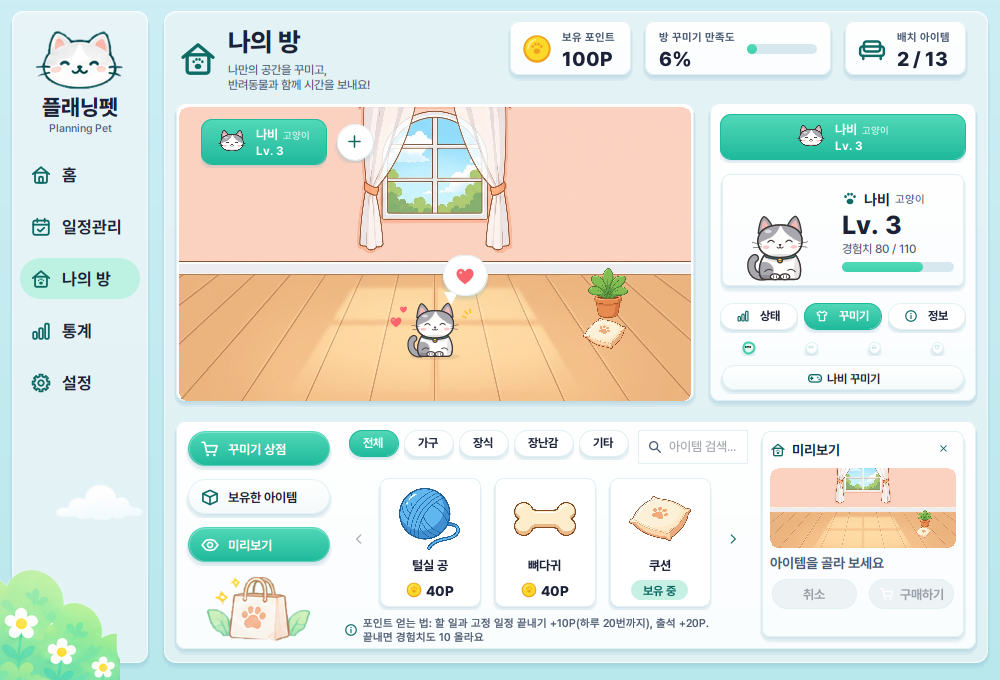
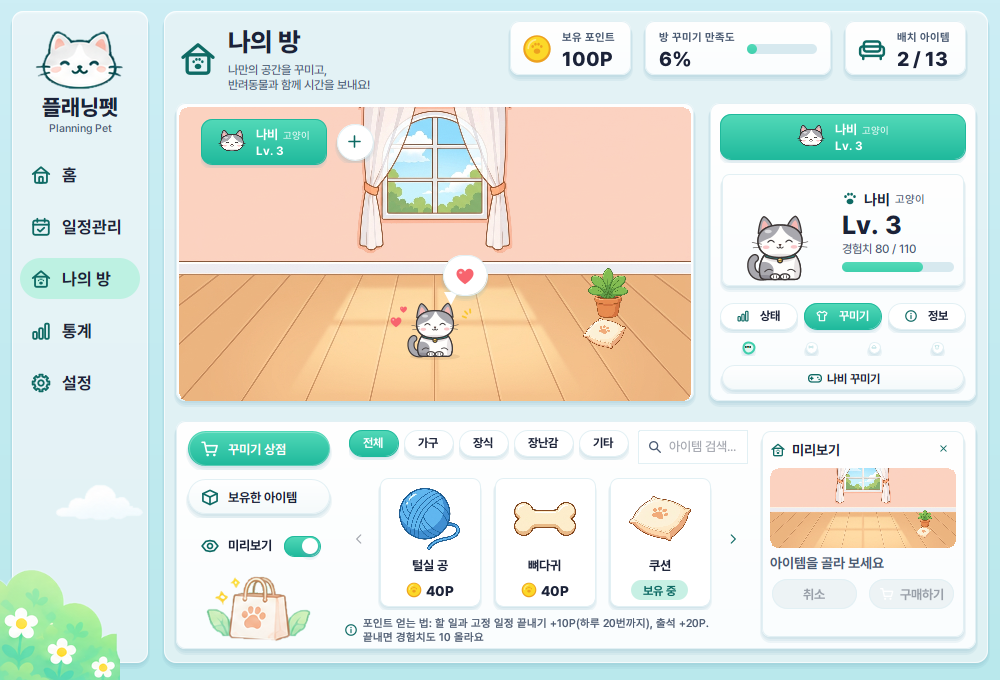
feat(shop): 상점 메뉴는 하나만 눌리는 탭 둘과 미리보기 스위치 (#195)
D-82: "꾸미기 상점"과 "보유한 아이템"만 하나만 눌리는 탭으로 두고, "미리보기"는 그 아래 Switch로 바꿨다. 검사 "D-82 상점 탭은 하나만 눌리고 미리보기는 따로 켜고 끄는 스위치"를 더하고 나의 방 캡처를 새로 찍었다.

Changed region(s): [[0.186, 0.7721, 0.341, 0.8338]]

diff --git a/prototype/src/planningpet/shop/view/ShopPanel.java b/prototype/src/planningpet/shop/view/ShopPanel.java
@@ -41,7 +41,8 @@ public final class ShopPanel extends Card {
     private final Consumer<String> thanks;
     public final JToggleButton shopMode = new JToggleButton("꾸미기 상점", true);
     public final JToggleButton ownedMode = new JToggleButton("보유한 아이템");
-    public final JToggleButton previewToggle = new JToggleButton("미리보기", true);
+    /** 미리보기 칸을 켜고 끈다. 위의 두 탭과 모양이 다른 스위치다(D-82). */
+    public final Switch previewToggle = new Switch("미리보기", Icons.Kind.EYE, true);
     public final JTextField search = new JTextField() {
         @Override
         protected void paintComponent(Graphics graphics) {
@@ -96,13 +97,13 @@ public final class ShopPanel extends Card {
         app.watch(this::refresh);
     }
 
-    /** 왼쪽 메뉴와 쇼핑백 그림. */
+    /** 왼쪽 메뉴: 하나만 눌리는 탭 둘(꾸미기 상점, 보유한 아이템)과 그 아래 미리보기 스위치(D-82), 쇼핑백 그림. */
     private JComponent menu() {
         ButtonGroup modes = new ButtonGroup();
         modes.add(shopMode);
         modes.add(ownedMode);
         JPanel col = new JPanel(new GridLayout(0, 1, 0, 8));
-        Object[][] rows = {{shopMode, Icons.Kind.CART}, {ownedMode, Icons.Kind.BOX}, {previewToggle, Icons.Kind.EYE}};
+        Object[][] rows = {{shopMode, Icons.Kind.CART}, {ownedMode, Icons.Kind.BOX}};
         for (Object[] r : rows) {
             JToggleButton b = (JToggleButton) r[0];
             Icons.Kind k = (Icons.Kind) r[1];
@@ -114,6 +115,7 @@ public final class ShopPanel extends Card {
             b.setIcon(Icons.icon(k, 20, b.isSelected() ? java.awt.Color.WHITE : Theme.ICON));
             col.add(b);
         }
+        col.add(previewToggle);
         shopMode.addActionListener(e -> {
             first = 0;
             app.redraw();

diff --git a/prototype/check/planningpet/check/ProtoCheck.java b/prototype/check/planningpet/check/ProtoCheck.java
@@ -448,6 +448,16 @@ public final class ProtoCheck {
             }
         }
         eq("D-93 홈 펫 카드의 1단계 펫은 카드 칸의 3분의 2 넘게", "넘음 넘음 넘음 넘음 넘음 넘음 ", fills.toString());
+        planningpet.shop.view.ShopPanel shopPanel = cr.shop;
+        String menu0 = shopPanel.shopMode.isSelected() + " " + shopPanel.ownedMode.isSelected() + " " + shopPanel.previewToggle.isSelected();
+        shopPanel.ownedMode.doClick();
+        String menu1 = shopPanel.shopMode.isSelected() + " " + shopPanel.ownedMode.isSelected() + " " + shopPanel.previewToggle.isSelected();
+        shopPanel.previewToggle.doClick();
+        String menu2 = shopPanel.shopMode.isSelected() + " " + shopPanel.ownedMode.isSelected() + " " + shopPanel.previewToggle.isSelected();
+        eq("D-82 상점 탭은 하나만 눌리고 미리보기는 따로 켜고 끄는 스위치", "true false true / false true true / false true false / Switch",
+                menu0 + " / " + menu1 + " / " + menu2 + " / " + shopPanel.previewToggle.getClass().getSimpleName());
+        shopPanel.shopMode.doClick();
+        shopPanel.previewToggle.doClick();
         App one = Main.create(MockData.sample());
         planningpet.pet.view.PetScreen oneRoom = find(one.root, planningpet.pet.view.PetScreen.class);
         oneRoom.character.opened(false);
